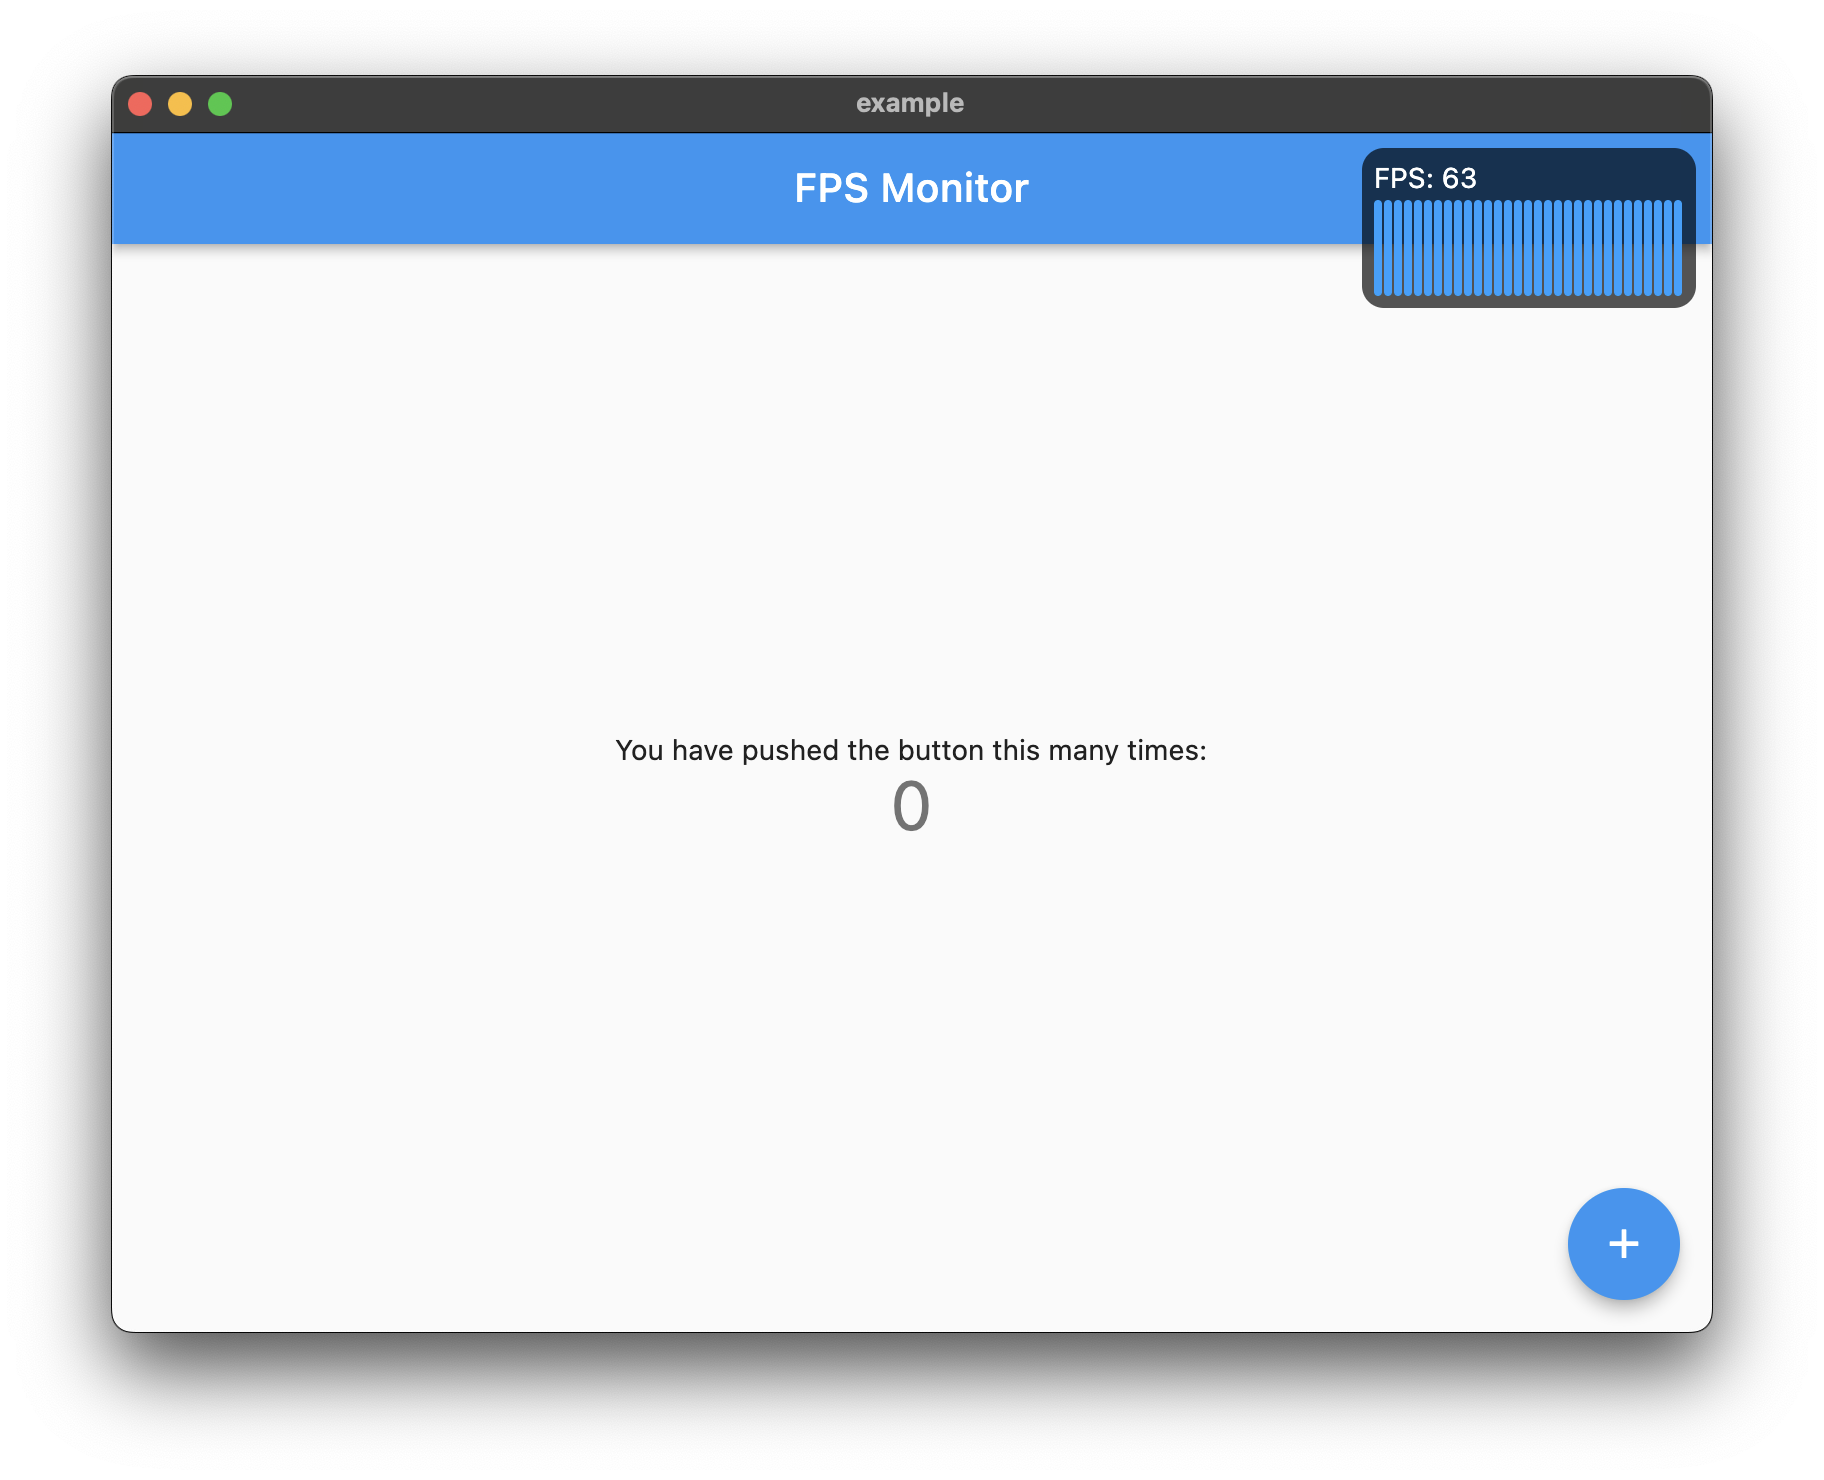
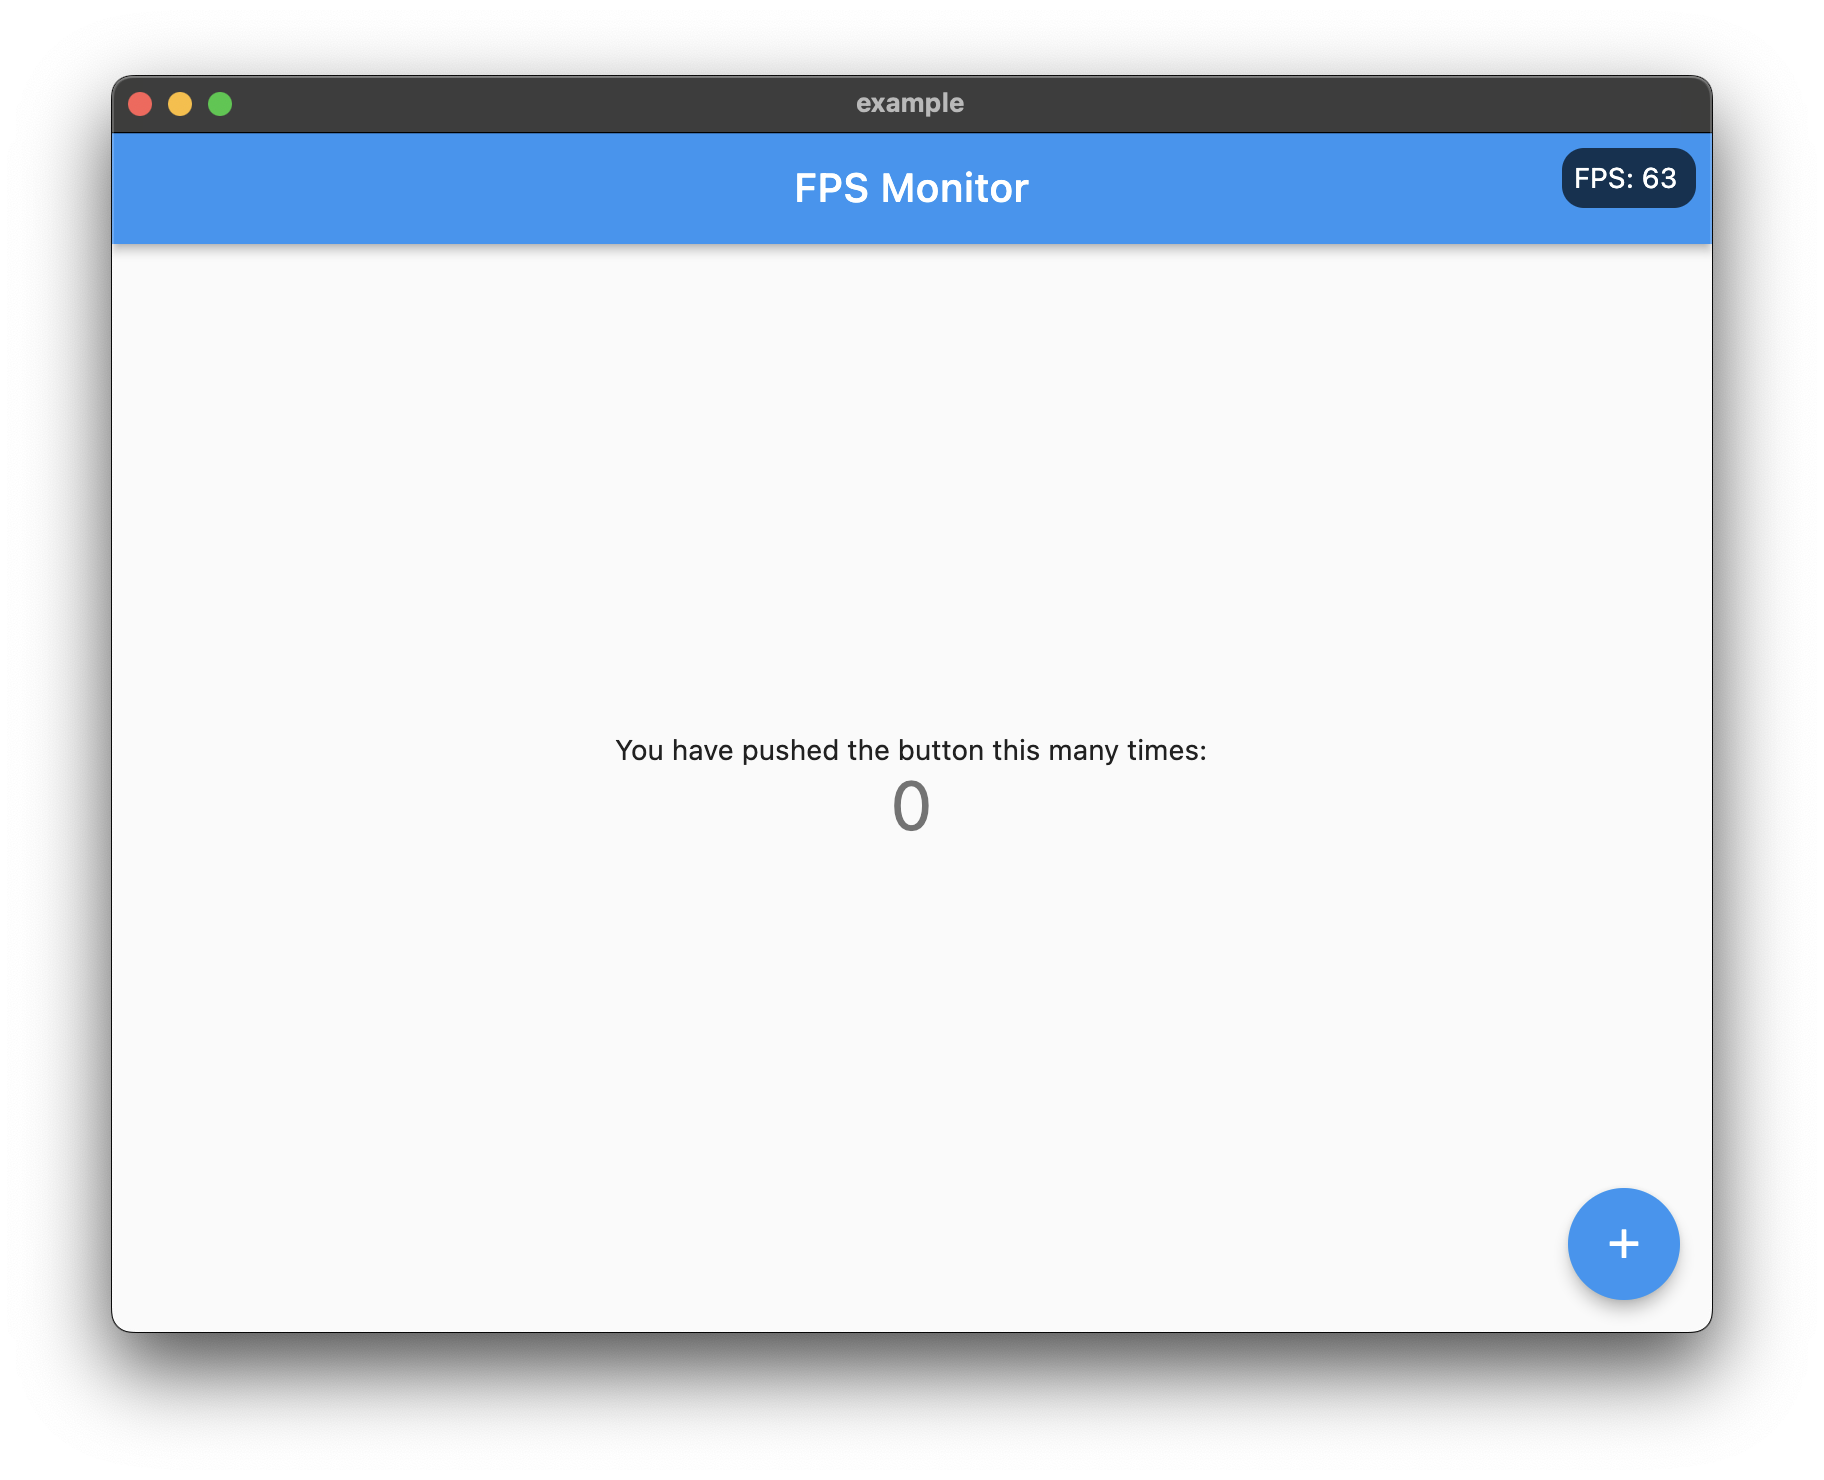
`v1.0.0` Update

Changed region(s): [[0.7188, 0.0932, 0.9375, 0.2176]]

diff --git a/example/lib/main.dart b/example/lib/main.dart
@@ -16,7 +16,7 @@ class MyApp extends StatelessWidget {
       home: Material(
         child: ShowFPS(
           visible: true,
-          showChart: true,
+          showChart: false,
           borderRadius: BorderRadius.all(Radius.circular(11)),
           child: MyHomePage(title: 'FPS Monitor'),
         ),

diff --git a/README.md b/README.md
@@ -32,7 +32,7 @@ MaterialApp(
       home: Material(
         child: ShowFPS(
           visible: true,
-          showChart: true,
+          showChart: false,
           borderRadius: BorderRadius.all(Radius.circular(11)),
           child: MyHomePage(title: 'FPS Monitor'),
         ),

diff --git a/CHANGELOG.md b/CHANGELOG.md
@@ -1,3 +1,7 @@
+## 1.0.1
+
+- FPS Chart Graph Color is now Blue.
+
 ## 1.0.0
 
 - Show FPS Badge on top of the screen.
